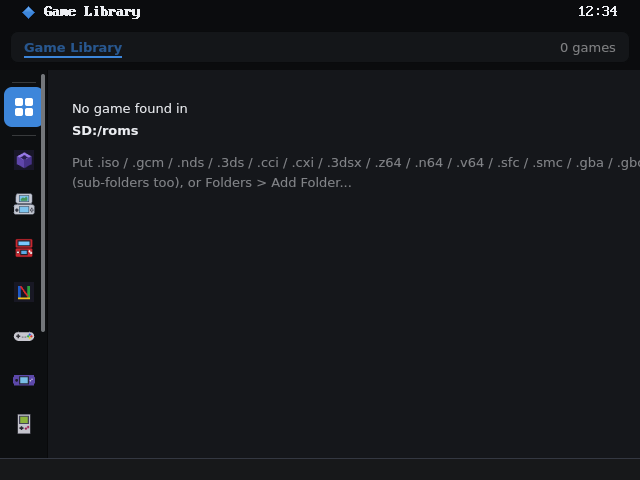
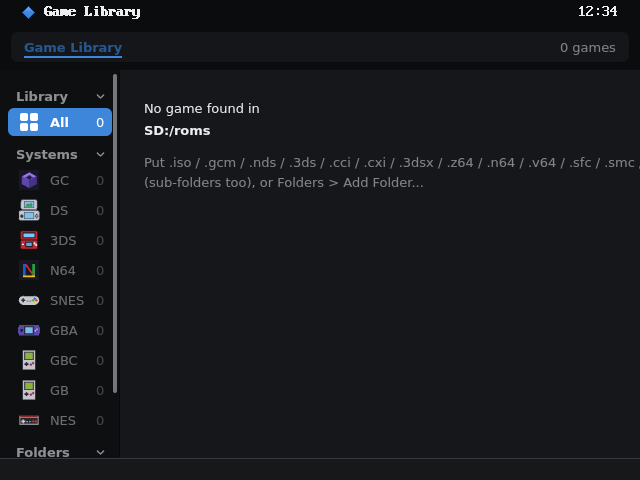
Game Library: the pocket's narrow panel whole at 2.5 rails, short names
On a pocket landscape narrower than four panels (the PocketTerm35's
640 x 480) the sidebar was a 48 px rail of icons; it is now the panel whole
at 2.5 rails (120 px), with the systems' short names (GC, DS, 3DS, N64,
SNES, GBA, GBC, GB, NES), All, Add... and the counts (the user's request).

Changed region(s): [[0.0, 0.1562, 1.0, 0.9062], [0.0312, 0.9375, 0.125, 0.9688]]

diff --git a/user/Apps/gamelib/main.cpp b/user/Apps/gamelib/main.cpp
@@ -627,6 +627,19 @@ static void sp_icon (Canvas &cv, int id, int x, int y, int size, unsigned ink, b
 	}
 	else uk_glyph (cv, WKG_PLUS, x + size / 2, y + size / 2, 10, ink);
 }
+// A pocket's landscape narrower than four whole panels (the PocketTerm35's 640 x 480): the panel whole at 2.5 rails
+// (the user, 2026-10-26) -- the systems' icons and short names rather than a rail of icons alone.
+static bool g_spNarrow;
+static const char *sys_short (const char *name)
+{
+	static const char *const T[][2] =
+	{
+		{ "GameCube", "GC" }, { "Nintendo DS", "DS" }, { "Nintendo 3DS", "3DS" }, { "Nintendo 64", "N64" },
+		{ "Super Nintendo", "SNES" }, { "Game Boy Advance", "GBA" }, { "Game Boy Color", "GBC" }, { "Game Boy", "GB" },
+	};
+	for (unsigned i = 0; i < sizeof T / sizeof T[0]; i++) if (strcmp (name, T[i][0]) == 0) return T[i][1];
+	return name;
+}
 static void sp_build (void)			// the groups as headings (they fold), the places with their number of games
 {
 	if (!g_sp) return;
@@ -635,17 +648,17 @@ static void sp_build (void)			// the groups as headings (they fold), the places 
 	for (int gr = 0; gr < NGROUPS; gr++)
 	{
 		int h = g_sp->addHeading (TR (GROUP_NAME[gr]), UK_SPI_FOLDABLE | (g_folded[gr] ? UK_SPI_FOLDED : 0));
-		if (gr == G_LIBRARY) { g_sp->addItem (F_ALL, TR ("All Games"), SPI_ALL, 0, h); count (F_ALL, g_ng); }
+		if (gr == G_LIBRARY) { g_sp->addItem (F_ALL, g_spNarrow ? TRC ("games", "All") : TR ("All Games"), SPI_ALL, 0, h); count (F_ALL, g_ng); }
 		else if (gr == G_SYSTEMS)
 			for (int k = 0; k < NSYS; k++)
 			{
-				g_sp->addItem (F_SYS + k, SYS_NAME(k), SPI_SYS + k, 0, h); count (F_SYS + k, g_nsys[k]);
+				g_sp->addItem (F_SYS + k, g_spNarrow ? sys_short (SYS_NAME(k)) : SYS_NAME(k), SPI_SYS + k, 0, h); count (F_SYS + k, g_nsys[k]);
 				if (g_nsys[k] == 0) g_sp->setFlags (F_SYS + k, UK_SPI_DISABLED);
 			}
 		else
 		{
 			for (int f = 0; f < g_nf; f++) { g_sp->addItem (F_FOLDER + f, g_folder[f], SPI_FOLDER, 0, h); count (F_FOLDER + f, g_nfold[f]); }
-			g_sp->addItem (SP_ADD, TR ("Add Folder..."), SPI_PLUS, 0, h);
+			g_sp->addItem (SP_ADD, g_spNarrow ? TR ("Add...") : TR ("Add Folder..."), SPI_PLUS, 0, h);
 			g_sp->setFlags (SP_ADD, UK_SPI_ACTION);		// (an action, not a place: L / R pass it)
 		}
 	}
@@ -654,7 +667,9 @@ static void sp_build (void)			// the groups as headings (they fold), the places 
 static void sp_place (void)			// its rectangle, what it takes of the window's left
 {
 	if (!g_sp || !g_root) return;
-	g_sp->place (0, BAR_H, SIDE0, g_root->height - ST_H - BAR_H);
+	bool narrow = uk_size_class () == UK_SC_COMPACT && g_root->width < SIDE0 * 4;
+	if (narrow != g_spNarrow) { g_spNarrow = narrow; sp_build (); }
+	g_sp->place (0, BAR_H, narrow ? uk_metrics ().rail * 5 / 2 : SIDE0, g_root->height - ST_H - BAR_H);
 	g_sideW = g_sp->reservedWidth ();
 }
 static void side_click (int r)
@@ -1066,6 +1081,7 @@ int main (void)
 	{
 		g_sp = new SidePanel (0, BAR_H, SIDE0, WIN_H - BAR_H - ST_H, UK_SP_LEFT, UK_SP_NAVIGATION);
 		g_sp->setIconFn (sp_icon);
+		g_sp->setRail (false);			// (pocket: whole, narrower -- sp_place)
 		g_sp->onSelect = [] (SidePanel &, int id) { if (id == SP_ADD) { g_sp->select (g_filter); on_add (); } else set_filter (id); if (g_root) g_root->invalidate (true); };
 		g_sp->onItemMenu = [] (SidePanel &, int id, int x, int y) { if (id >= F_FOLDER && id < SP_ADD) folder_menu (id - F_FOLDER, x, y); };
 		g_sp->onPresentation = [] (SidePanel &, int) { sp_place (); if (g_root) g_root->invalidate (true); };

diff --git a/docs/04-USER-GUIDE.md b/docs/04-USER-GUIDE.md
@@ -6286,7 +6286,7 @@ Quest, Pinball and Critters lay themselves out again instead (their board grows,
 | **Teapot (GPU)** (`teapot`) | The demo of the Raspberry Pi 4's **GPU** (V3D): the Utah teapot turning, lit (6400 triangles), drawn by the GPU with a depth buffer. The top line shows the renderer (`V3D 4.2 (1 core)`), the triangles, the frames a second and the time of one frame. **Space** pause, **G** GPU / software (the same picture drawn by the CPU, to compare), **Up / Down** tilt. Without a usable GPU it draws in software and the top line says why (the details are in `kmsg`). Reads and writes no file. |
 | **GPU demo** (`gpudemo`) | The GPU's full pipeline: six **textured cubes** turning (each moved by the GPU with its own matrix), a **glass pane** in front (transparency) and **glowing sparks** (additive light). Each cube's texture has a size that the GPU stores differently (its label: `4x4 LT`, `8x8 UB1`, `16x16 UB2`, `64x64 UIF`, `256 UIF/XOR`, `100x60 UIF`); every face should show a white border, a yellow dot in a corner and a dark arrow — a scrambled face means that layout is wrong. **F** nearest / linear filtering, **C** culling (back / none / front: with *back* only the outer faces show), **B** blending on / off, **T** textures on / off, **Space** pause. The top line: the GPU, the settings, frames a second, time of a frame (and the error, if the GPU refused a frame). Reads and writes no file. |
 | **Doom** (`doom`) | id Software's Doom (the GPL source, through doomgeneric). Onyx ships **Freedoom Phase 1** (`SD:/doom/freedoom1.wad`, free content); copy your own `doom.wad`, `doom2.wad`, `doom1.wad` (shareware), `plutonia.wad` or `tnt.wad` into **`SD:/doom`** to play the original — the first found is used. Opening a `.wad` in the File Viewer starts Doom with it (a mod — a PWAD — is loaded over the game). **Arrows** move, **Ctrl** fires, **Space** opens / uses, **Alt** + arrows or **,** / **.** strafe, **Shift** runs, **1–7** weapons, **Tab** the map, **Esc** the menu, **F1–F10** as in DOS Doom (F2 save, F3 load…). **USB gamepad**: d-pad, **A** fire, **B** use, **X** run, **L / R** strafe, **Start** menu, **Select** map. The picture is Doom's 320 × 200 doubled in a 640 × 400 window; **F11** / Game ▸ **Full Screen** stretches it to the display at 4:3. Sound effects and **music** (MUS or MIDI) on the Onyx synthesizer's FM voices with the WAD's own OPL instruments (GENMIDI), like the DOS version on an AdLib / Sound Blaster. Settings in `SD:/doom/default.cfg`, saved games in `SD:/doom/savegame/<iwad>/`. Loading a 28 MB WAD takes a couple of seconds. The game runs on an **app core** (core 2 or 3) when one is free: steadier, and the rest of Onyx stays fluid. |
-| **Game Library** (`gamelib`) | A "Netflix for ROMs", laid out as the File Viewer: every GameCube (`.iso` / `.gcm`), Nintendo DS (`.nds`), Nintendo 64 (`.z64` / `.n64` / `.v64`), Super Nintendo (`.sfc` / `.smc`), Game Boy Advance (`.gba`), Game Boy Color (`.gbc`), Game Boy (`.gb`) and NES (`.nes`) game of the **watched folders** (**`SD:/roms`** by default) and their sub-folders, one card each — a picture of its title screen and its name (a Nintendo 64 game: a label with the name from its header; a GameCube disc: its banner; a Nintendo DS game: its icon and its title). **On the left, the sidebar** (click a group's title to fold it): **Library ▸ All Games**, **Systems** — the emulators, each with its icon and its number of games: **click one to see its games only** — and **Folders** (the watched folders and their games; **Add Folder…**; right-click one: Show, Show in File Viewer, **Remove Folder**). Above, the path bar (*Game Library ▸ Super Nintendo*, the number of games; click *Game Library* for all of them); below, the status bar (the game chosen, the picture being made). The cards: one section per system; **click** one to select it, **double-click** it (or **Enter**) to play; right-click: **Play**, **Play Full Screen**, **Show in File Viewer**. Keys: arrows, Enter, Page Up / Down, **Tab** = the next system. With a **gamepad**: the d-pad moves, **Start** (or A) plays, **L / R** the previous / next system, **L2 / R2** turn a page. The pictures are made in the background the first time (each game runs a few seconds unseen; the games shown first) and cached in `SD:/apps/gamelib.app/thumbs/`. Library ▸ **Refresh** (^R) finds new ROMs. **Several folders** are watched, on any volume (e.g. `SD1:/roms` on an exFAT partition): the sidebar's Add Folder… / Folders ▸ **Add Folder...** (the folder dialog), Folders ▸ **Remove <folder>** — kept in `SD:/apps/gamelib.app/config.ini`, one `folder = <path>` line each (63 characters at most); View ▸ All Games / a system, **Play Full Screen On / Off**. The **emulators** are in no menu of the desktop (their `category` is `Emulators`): the Game Library starts the right one for a game (and an emulator started without a ROM opens the Game Library). **The systems are those of the installed emulators**: each says in its `app.txt` the systems it plays and their files' extensions (`games = Game Boy Color: gbc; Game Boy: gb`) and the place of their sections (`order = 50`) — install an emulator's package (Control Panel ▸ Packages) and its games show; remove it and they go. A game whose emulator has no picture maker here shows its emulator's icon. In the system's language (English or French). **In the pocket and console modes** the sidebar is a rail of the systems' icons in landscape (the names and the counts under the pointer or the focus; whole on a wide screen), a drawer in portrait (the tab at the left edge), the column of big rows in console (L1 / R1: the next place); a system with no game is greyed. |
+| **Game Library** (`gamelib`) | A "Netflix for ROMs", laid out as the File Viewer: every GameCube (`.iso` / `.gcm`), Nintendo DS (`.nds`), Nintendo 64 (`.z64` / `.n64` / `.v64`), Super Nintendo (`.sfc` / `.smc`), Game Boy Advance (`.gba`), Game Boy Color (`.gbc`), Game Boy (`.gb`) and NES (`.nes`) game of the **watched folders** (**`SD:/roms`** by default) and their sub-folders, one card each — a picture of its title screen and its name (a Nintendo 64 game: a label with the name from its header; a GameCube disc: its banner; a Nintendo DS game: its icon and its title). **On the left, the sidebar** (click a group's title to fold it): **Library ▸ All Games**, **Systems** — the emulators, each with its icon and its number of games: **click one to see its games only** — and **Folders** (the watched folders and their games; **Add Folder…**; right-click one: Show, Show in File Viewer, **Remove Folder**). Above, the path bar (*Game Library ▸ Super Nintendo*, the number of games; click *Game Library* for all of them); below, the status bar (the game chosen, the picture being made). The cards: one section per system; **click** one to select it, **double-click** it (or **Enter**) to play; right-click: **Play**, **Play Full Screen**, **Show in File Viewer**. Keys: arrows, Enter, Page Up / Down, **Tab** = the next system. With a **gamepad**: the d-pad moves, **Start** (or A) plays, **L / R** the previous / next system, **L2 / R2** turn a page. The pictures are made in the background the first time (each game runs a few seconds unseen; the games shown first) and cached in `SD:/apps/gamelib.app/thumbs/`. Library ▸ **Refresh** (^R) finds new ROMs. **Several folders** are watched, on any volume (e.g. `SD1:/roms` on an exFAT partition): the sidebar's Add Folder… / Folders ▸ **Add Folder...** (the folder dialog), Folders ▸ **Remove <folder>** — kept in `SD:/apps/gamelib.app/config.ini`, one `folder = <path>` line each (63 characters at most); View ▸ All Games / a system, **Play Full Screen On / Off**. The **emulators** are in no menu of the desktop (their `category` is `Emulators`): the Game Library starts the right one for a game (and an emulator started without a ROM opens the Game Library). **The systems are those of the installed emulators**: each says in its `app.txt` the systems it plays and their files' extensions (`games = Game Boy Color: gbc; Game Boy: gb`) and the place of their sections (`order = 50`) — install an emulator's package (Control Panel ▸ Packages) and its games show; remove it and they go. A game whose emulator has no picture maker here shows its emulator's icon. In the system's language (English or French). **In the pocket and console modes** the sidebar in landscape is the panel whole but narrow (2.5 times a rail: 120 px on a 640 x 480 screen such as the PocketTerm35's) -- the systems' icons, their short names (GC, DS, 3DS, N64, SNES, GBA, GBC, GB, NES; *All*, *Add...*) and counts -- and as wide as on the desktop on a screen four panels wide, a drawer in portrait (the tab at the left edge), the column of big rows in console (L1 / R1: the next place); a system with no game is greyed. |
 | **Super Nintendo** (`snesemu`) | The Super Nintendo / Super Famicom emulator. Opening a `.sfc` / `.smc` file starts it (its `app.txt`: `games = Super Nintendo: sfc smc`); without a ROM it opens the Game Library. the keyboard (the Gamepad applet's Keyboard tab: by default **Arrows** D-pad, **X** = A, **Z** = B, **S** = X, **A** = Y, **Q** = L, **W** = R, **Enter** = Start, **Backspace** = Select), **P** pause; or a **USB gamepad** (the buttons by place, as on a Super Nintendo pad: right = A, bottom = B, top = X, left = Y, the shoulders L / R). View ▸ **Full Screen** (**F11**; **Esc** back), **Zoom 1x/2x/3x**, **Region: NTSC (60 Hz) / PAL (50 Hz)** (read from the ROM's header: a European game runs at 50 Hz), **Show Speed** (**F12**); Sound ▸ On / Off; Game ▸ Reset. The cartridge's battery RAM (e.g. Zelda: A Link to the Past's three files) is **`<rom>.sav`** beside the ROM (written every 5 s after a change and on exit). Games with an **enhancement chip** in the cartridge (Super FX: Star Fox, Yoshi's Island; SA-1: Super Mario RPG; DSP-1: Super Mario Kart, Pilotwings…) are not supported: a message says so. Runs on an **app core** when one is free, like the other emulators. |
 | **GameCube** (`gcemu`) | The Nintendo GameCube emulator — **just started**: the console's CPU (checked instruction by instruction against a reference) and chips, the graphics by the GPU, the start of a disc through its own loader; the **sound** (the game's audio stream and the Zelda games' music; Sound ▸ **Sound On / Off** — AX games are still silent) and a **memory card** in slot A, kept as **`<game>.sav`** beside the disc image (the same file as NintendoEMU's on the PC: a save moves between them), and its CPU is **recompiled** to the Pi's own code as it runs (a JIT: the integer, floating point and paired-single code; the rarer instructions still go through the interpreter — the speed on real games is being worked on: The Wind Waker, a PAL disc, runs at ~46-49 fields a second of its 50 on Outset (~23-24 frames a second of its 25: smooth on a TV), 50 in the lighter scenes; a sound that stutters is the game running below real time; a Pi 4 without a fan slows down above ~80 °C). Opening a `.iso` / `.gcm` disc image or a `.dol` program starts it (the disc is read from the file as the game asks, not loaded); the Game Library shows the discs with their banner. the keyboard (the Gamepad applet's Keyboard tab: by default **Arrows** the stick and the D-pad, **Z** = A, **A** = B, **X** = X, **S** = Y, **Q / W** = Z, **E / R** = L / R, **Enter** = Start, **I J K L** the C stick — the buttons by place, as a pad's), **P** pause; or a **USB gamepad**. The pictures are drawn by the GPU with the console's **TEV** turned into GPU shaders (every stage of its colour combiner computed as the console does, the textures, the alpha test — the fog, the indirect textures and the render-to-texture effects not yet); View ▸ **TEV Shaders On / Off** goes back to the older, simpler drawing (one texture, the colours computed per vertex). View ▸ **Full Screen** (**F11**), **Size 640 × 480 / 960 × 720**, **Show FPS** (**F10**: the game's frames a second and its speed against real time, in a corner), **Show Speed** (**F12**: fields/s, JIT or interpreter, `TEV` and the number of shaders made, or `GPU`; with the TEV shaders a third line tells what the graphics card did with the frame — useful in a problem report — and a fourth where the time goes: the graphics commands, the textures, the vertices, the second core's share, and the frame's drawing), **Dump the Frame (TEV)** (**F9**: the frame shown saved into `SD:/gcdump/frame_<n>.gxf`, for the developers; `gcemu <disc> --diag` does it by itself: the speed lines every second into `SD:/gcdump/diag.txt`, a frame every 60 s, and it quits after 200 s). Game ▸ **Interpreter (no JIT)** (or `--interp`) runs the plain interpreter, to compare. Runs on an **app core** when one is free, its graphics commands on a **second** one when there is one (`netcore=0` in `SD:/cmdline.txt` leaves both cores to the apps; `--gxone` keeps them on one); `--pmu`, `--jitprof` (with `--diag`), `--statlog` (the speed lines every second into `SD:/gcdump/statlog.txt`, for as long as it runs) and `--nodraw` are measures for the developers. **When the Pi is slower than the console, the sound is stretched** (its pitch kept) rather than chopped: the game and its music slow down smoothly — F12's `sound` shows it (`x130%`). |
 | **Nintendo DS** (`ndsemu`) | The Nintendo DS emulator — **new**: both processors, the two screens (2D and **3D**), the touch screen, the sound and the saves; their processors' code is **recompiled** to the Pi's own as it runs (a JIT; Game ▸ **Interpreter (no JIT)** to compare), the 3D is drawn on a **second app core** when one is free. Opening a `.nds` file starts it (its `app.txt`: `games = Nintendo DS: nds`); without a ROM it opens the Game Library (which shows each game with its icon and its title). The two screens one above the other (View ▸ **Side by Side**: next to each other; **Swap Screens**), **Zoom 1x/2x/3x**, **Full Screen** (**F11**; **Esc** back). **The touch screen: the mouse's left button on the bottom screen.** The keyboard (the Gamepad applet's Keyboard tab: by default **Arrows** D-pad, **X** = A, **Z** = B, **S** = X, **A** = Y, **Q** / **W** = L / R, **Enter** = Start, **Backspace** = Select), **P** pause, **F9** closes / opens the lid, **F12** Show Speed (frames a second, the time of a frame, the sound queued, JIT or interpreter, `3D on a core`); or a **USB gamepad** (the buttons by place, as on Nintendo's pads: right = A, bottom = B, top = X, left = Y, the shoulders L / R). Sound ▸ On / Off; Game ▸ Reset. The game's **save** (EEPROM, Flash or FRAM: recognised from the save's size, or from the game's first save) is **`<rom>.sav`** beside the ROM (the chip's raw bytes, as most DS emulators keep them), written a few seconds after the game saved and on exit. **No BIOS or firmware file is needed** (the boot and the BIOS's functions are built in; the firmware's user is "Onyx", in Onyx's language; the clock is Onyx's). A dump whose *secure area* is still encrypted (rare: most dumps are decrypted) needs the ARM7 BIOS of your own console in `SD:/apps/ndsemu.app/bios7.bin`: a message says so. Not emulated: the Wi-Fi, the microphone, the GBA slot, DSi games. `ndsemu <rom> --fullscreen` starts full screen, `--interp` without the JIT. |
